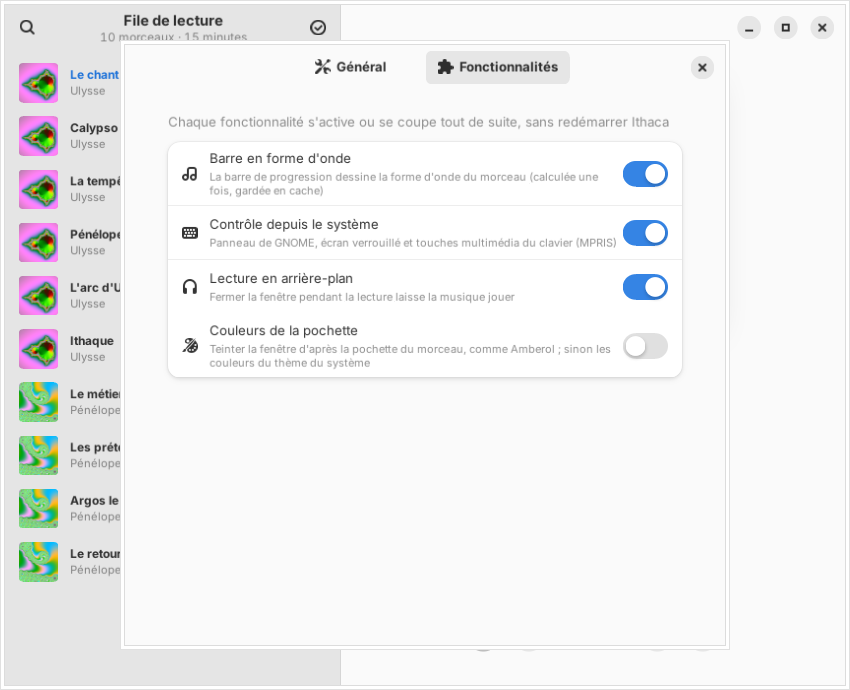
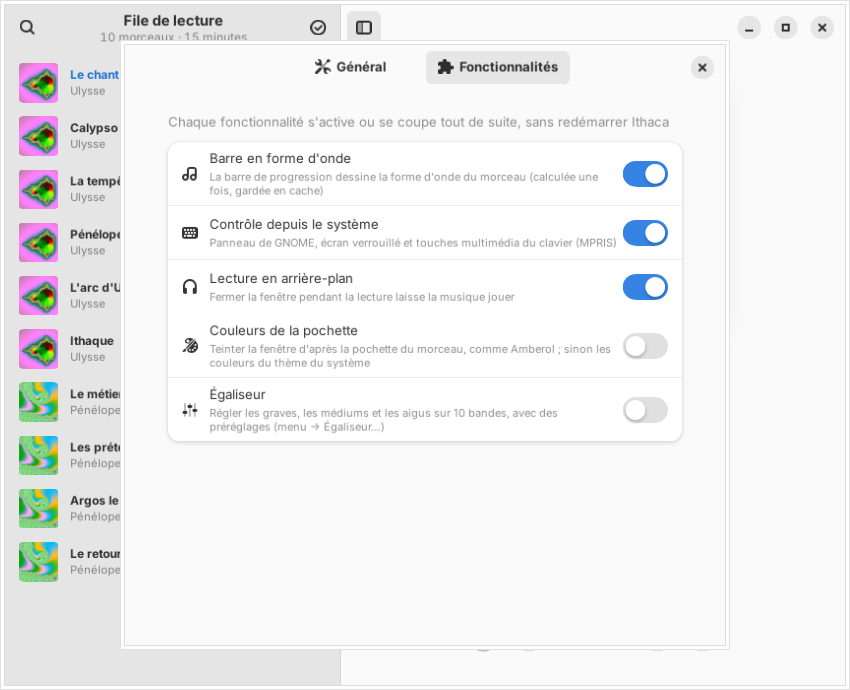
Version 1.4.0
Égaliseur 10 bandes avec préréglages, valeur du volume (pourcentage et
pastille sur la pochette), corrections de l'audit. Captures « Fonctionnalités »
du site et du README refaites (ligne de l'égaliseur).

Claude-Session: https://claude.ai/code/session_01S2pd79zcmUKbwuKP7HHfC8

Changed region(s): [[0.2141, 0.5478, 0.6424, 0.6391], [0.7341, 0.5478, 0.7953, 0.6391], [0.3976, 0.0304, 0.4588, 0.0609]]

diff --git a/site/index.html b/site/index.html
@@ -323,7 +323,7 @@
       <a href="#all">Everything</a>
       <a href="#install">Install</a>
       <a href="https://github.com/ToFpon/Ithaca">GitHub</a>
-      <a href="#install" class="get-pill">v1.3.3 · available</a>
+      <a href="#install" class="get-pill">v1.4.0 · available</a>
     </div>
   </div>
 </nav>
@@ -333,7 +333,7 @@
   <div class="hero-bg"></div>
   <div class="wrap hero-in">
     <img class="hero-icon" src="img/icon.svg" alt="Ithaca icon">
-    <span class="eyebrow"><span class="dot" style="background:var(--green);box-shadow:0 0 8px var(--green)"></span> Version 1.3.3 · GTK4 · libadwaita · GPL-3.0</span>
+    <span class="eyebrow"><span class="dot" style="background:var(--green);box-shadow:0 0 8px var(--green)"></span> Version 1.4.0 · GTK4 · libadwaita · GPL-3.0</span>
     <h1>Plays your music.<br>And <span class="accent">nothing else</span>.</h1>
     <p class="lede">Ithaca is a small music player for GNOME. No library to manage, no tags to edit: open songs, folders or playlists and they join the queue. Large cover art, a waveform progress bar, gapless playback — inspired by Amberol, without Flatpak.</p>
     <div class="wave" id="wave" aria-hidden="true"></div>

diff --git a/ithaca/__init__.py b/ithaca/__init__.py
@@ -2,4 +2,4 @@
 
 APP_ID = "io.github.ithaca.Ithaca"
 APP_NAME = "Ithaca"
-VERSION = "1.3.3"
+VERSION = "1.4.0"

diff --git a/CLAUDE.md b/CLAUDE.md
@@ -66,7 +66,7 @@ téléchargements (abandonné, historique repris de zéro à la demande de Tof).
   même gabarit) : en ligne sur https://tofmicro.pages-perso.free.fr/Ithaca/, envoyé par FTP à la fin de
   `tools/ppa.sh` via `tools/site.sh` (copie de celui d'Odysseus : lftp, identifiants dans ~/.netrc de
   Tof, `--transfer-all`, jamais de suppression ; `--essai` montre sans envoyer). Version dans la pastille
-  de la barre et l'accroche (« v1.3.3 », « Version 1.3.3 ») : à tenir à jour. « Copy » ne copie que les deux
+  de la barre et l'accroche (« v1.4.0 », « Version 1.4.0 ») : à tenir à jour. « Copy » ne copie que les deux
   commandes d'installation. Captures de `site/img/` en anglais et en sombre (sauf `light.png`) :
   `LANGUAGE=en … tools/screenshot.py site/img/NOM.png --delay=6000 --dark --size=1000x680 [options]` —
   dark, light (sans `--dark`), cover-colors (`--recolor`), search (`--search=pen`), selection, features
